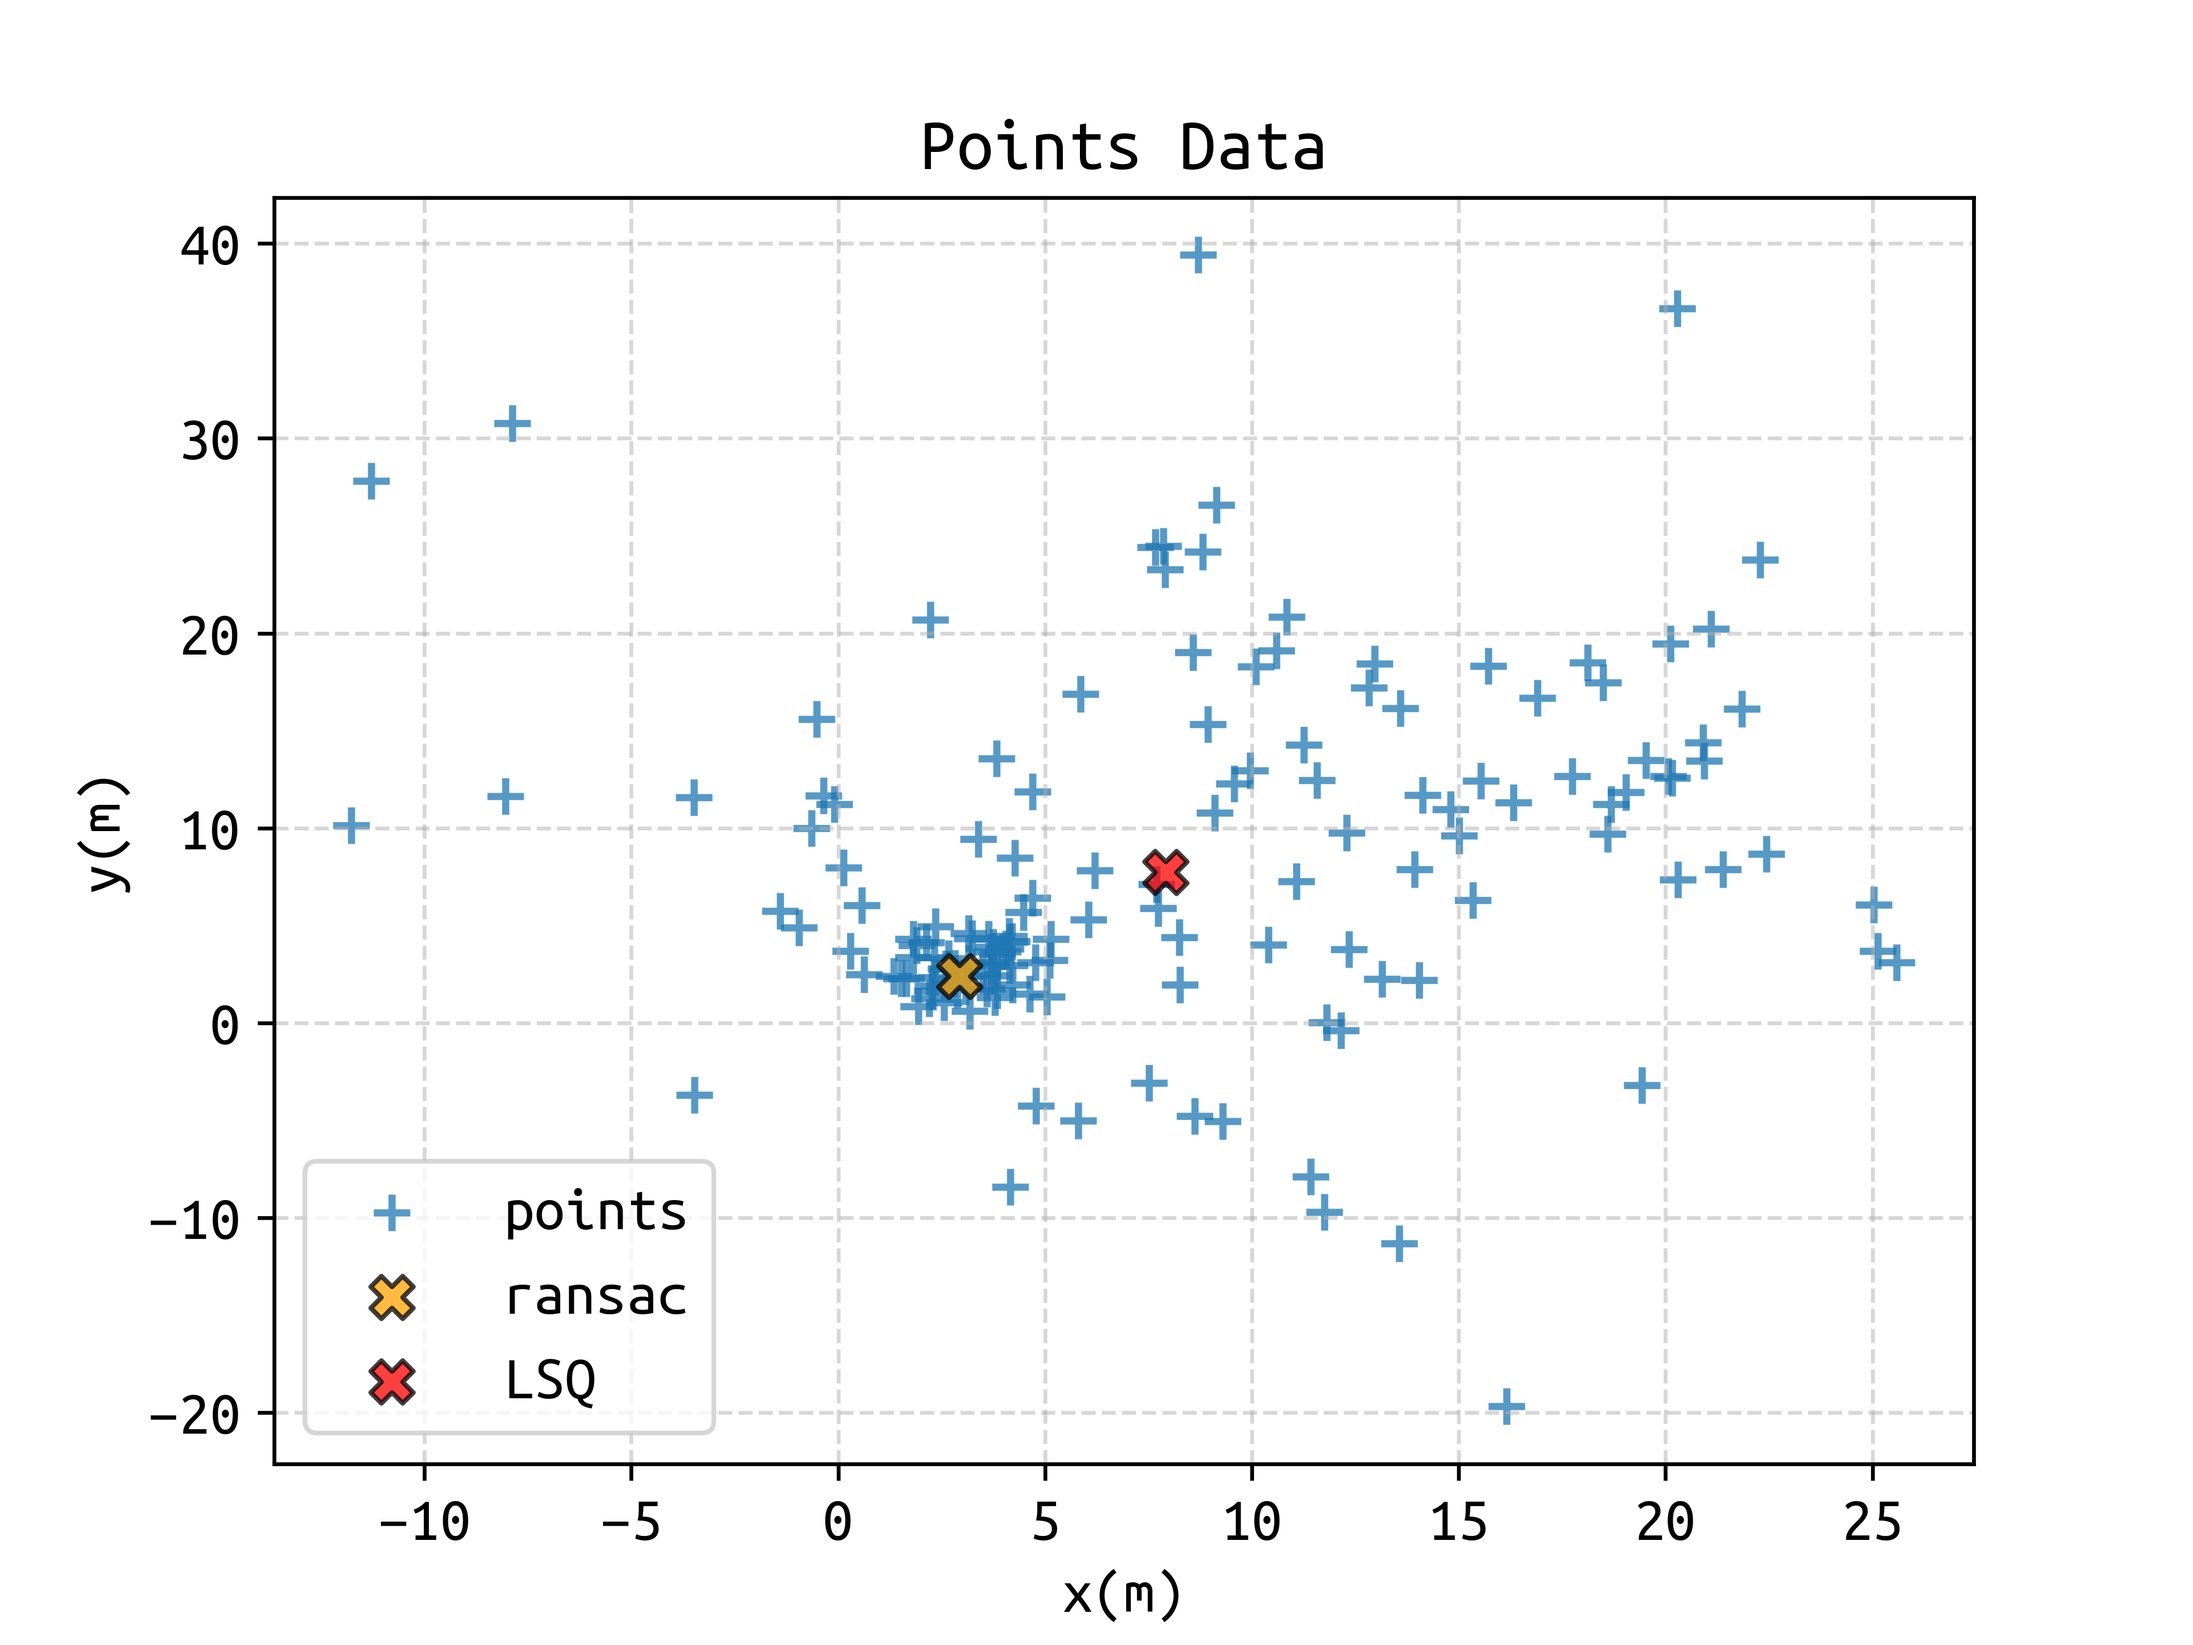
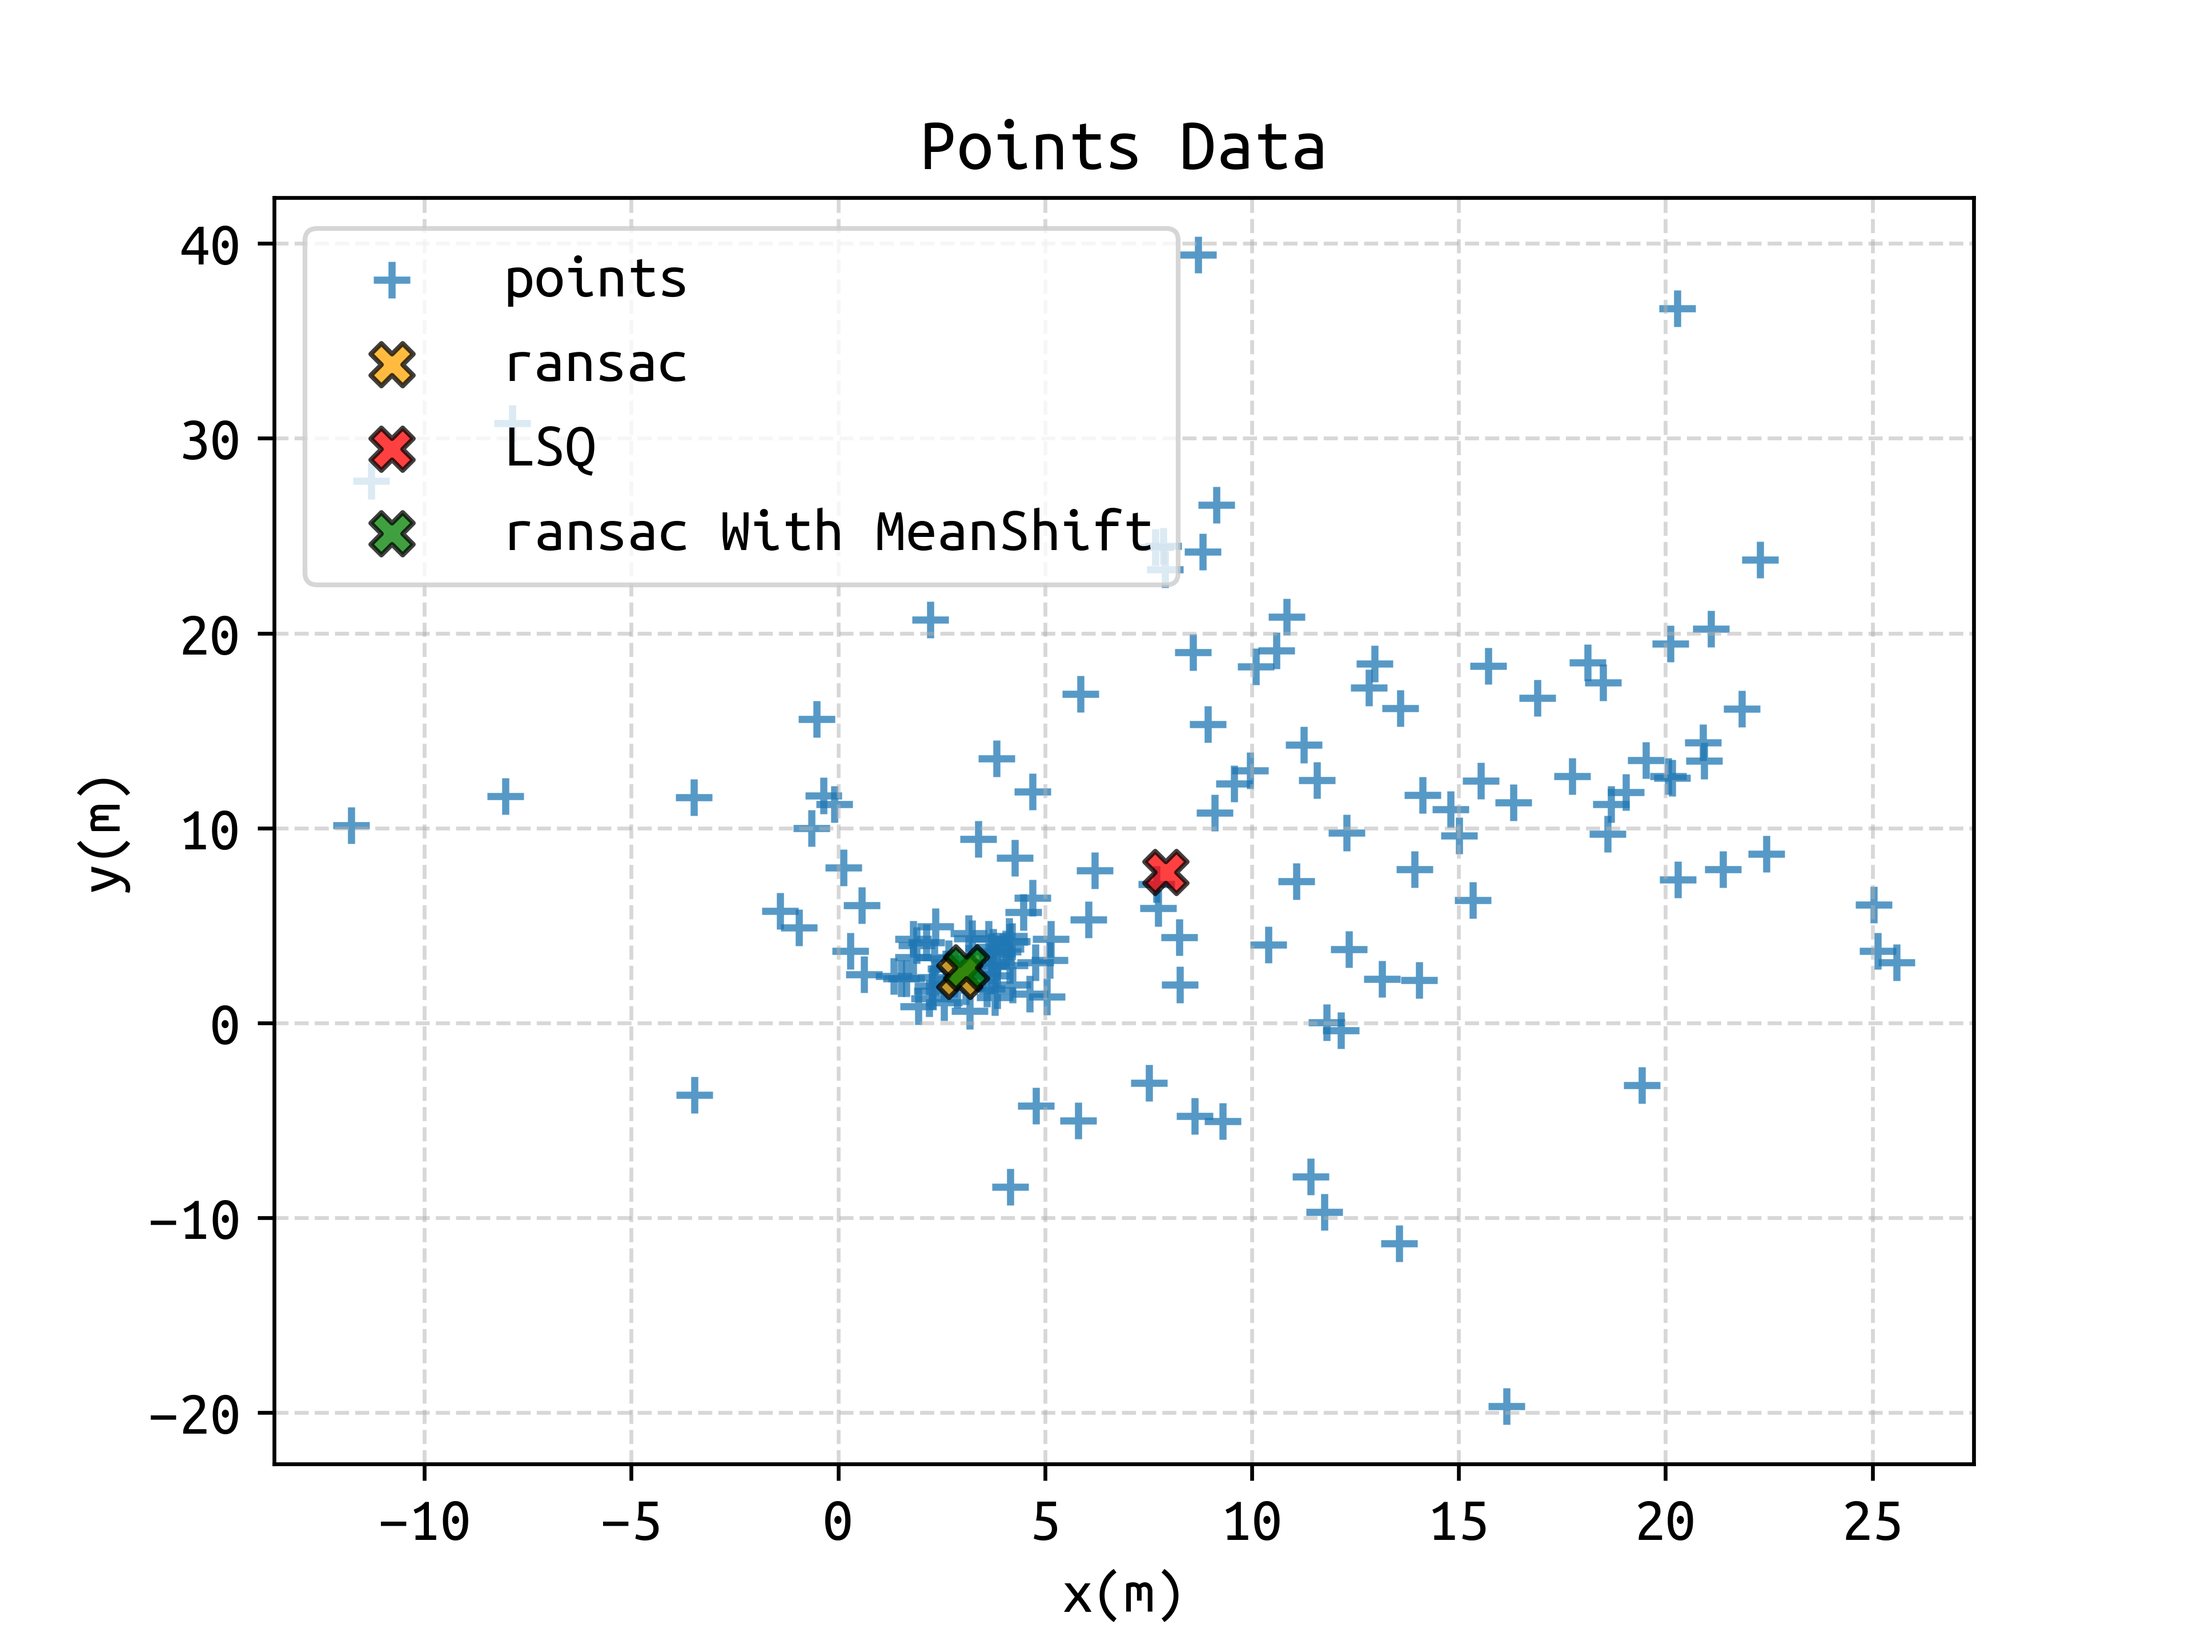
add meanshift

diff --git a/st12-ransaplus/src/include/ransac.hpp b/st12-ransaplus/src/include/ransac.hpp
@@ -14,9 +14,73 @@ namespace ns_st12 {
     Ransca() = default;
 
   public:
+    bool solveWithMeanShift(const std::vector<ElemType> &data,
+                            Eigen::Vector<double, EigenVecSize> &modelParams,
+                            double &modelAvgResiual,
+                            const double inlierResidualThd,
+                            const std::size_t ransacIterCount = 20,
+                            const double validModelInliersCountThd = 0.3) {
+      if (!solve(data, modelParams, modelAvgResiual, inlierResidualThd,
+                 ransacIterCount, validModelInliersCountThd)) {
+        return false;
+      }
+      bool state = true;
+      bool initialized = false;
+      double lastAvgResiual;
+      while (true) {
+        std::vector<ElemType> inliers;
+        for (const auto &elem : data) {
+          double residual_t;
+          if (!residual(modelParams, elem, residual_t)) {
+            state = false;
+            break;
+          }
+          if (residual_t < inlierResidualThd) {
+            inliers.push_back(elem);
+          }
+        }
+        if (!state) {
+          break;
+        }
+        if (!fit(inliers, modelParams)) {
+          state = false;
+          break;
+        }
+        double avgResiual = 0.0;
+        for (const auto &elem : inliers) {
+          double residual_t;
+          if (!residual(modelParams, elem, residual_t)) {
+            state = false;
+            break;
+          }
+          avgResiual += residual_t;
+        }
+        if (!state) {
+          break;
+        }
+        avgResiual /= inliers.size();
+        if (!initialized) {
+          lastAvgResiual = avgResiual;
+          initialized = true;
+          continue;
+        }
+        LOG_VAR(avgResiual);
+        double delta = std::abs(lastAvgResiual - avgResiual);
+        if (delta < 1E-8) {
+          lastAvgResiual;
+          break;
+        } else {
+          lastAvgResiual = avgResiual;
+        }
+      }
+      modelAvgResiual = lastAvgResiual;
+      return state && initialized;
+    }
+
     bool solve(const std::vector<ElemType> &data,
                Eigen::Vector<double, EigenVecSize> &modelParams,
-               double &modelAvgResiual, const double inlierResidualThd,
+               double &modelAvgResiual,
+               const double inlierResidualThd,
                const std::size_t iterCount = 20,
                const double validModelInliersCountThd = 0.3) {
       bool state = true;

diff --git a/st12-ransaplus/src/main.cpp b/st12-ransaplus/src/main.cpp
@@ -70,9 +70,22 @@ void lsqCase() {
   ns_geo::PointSet2d{{x, y}}.write("../data/lsq.txt", std::ios::out);
 }
 
+void ransacWithMeanShiftCase() {
+  ns_geo::PointSet2d pts;
+  pts.read("../data/pts.txt", std::ios::in);
+  RansacPosition solver;
+  Eigen::Vector2d modelParams;
+  double modelAvgResiual;
+  if (solver.solveWithMeanShift(pts, modelParams, modelAvgResiual, 3, 50, 0.1)) {
+    LOG_VAR(modelParams, modelAvgResiual);
+    ns_geo::PointSet2d{{modelParams(0), modelParams(1)}}.write("../data/ransac_ms.txt", std::ios::out);
+  }
+}
+
 int main(int argc, char const *argv[]) {
   genPts();
   ransacCase();
   lsqCase();
+  ransacWithMeanShiftCase();
   return 0;
 }

diff --git a/st12-ransaplus/pyDrawer/drawer2.py b/st12-ransaplus/pyDrawer/drawer2.py
@@ -20,6 +20,7 @@ def readPts(filename):
 (x, y) = readPts("./data/pts.txt")
 (xRansac, yRansac) = readPts("./data/ransac.txt")
 (xLsq, yLsq) = readPts("./data/lsq.txt")
+(xMS, yMS) = readPts("./data/ransac_ms.txt")
 
 
 plt.scatter(x, y,  label='points',
@@ -29,6 +30,8 @@ plt.scatter(xRansac, yRansac, label='ransac',
             c='orange', alpha=0.75, marker='X', s=80, edgecolors='black')
 plt.scatter(xLsq, yLsq, label='LSQ',
             c='red', alpha=0.75, marker='X', s=80, edgecolors='black')
+plt.scatter(xMS, yMS, label='ransac With MeanShift',
+            c='green', alpha=0.75, marker='X', s=80, edgecolors='black')
 
 plt.legend()
 plt.xlabel('x(m)')
